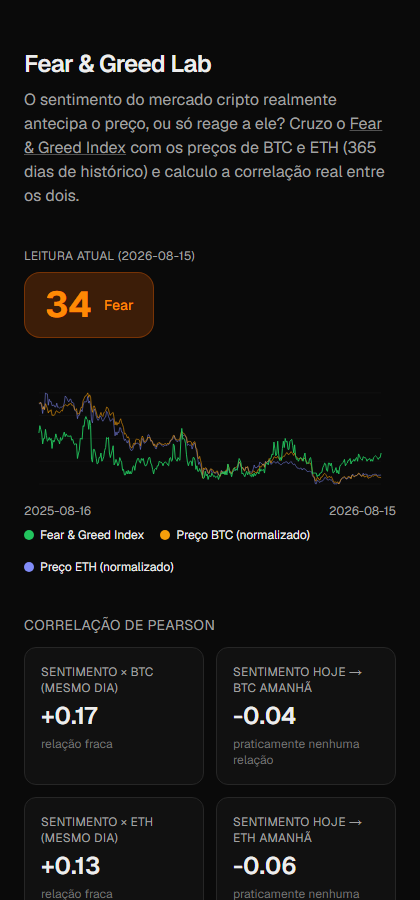
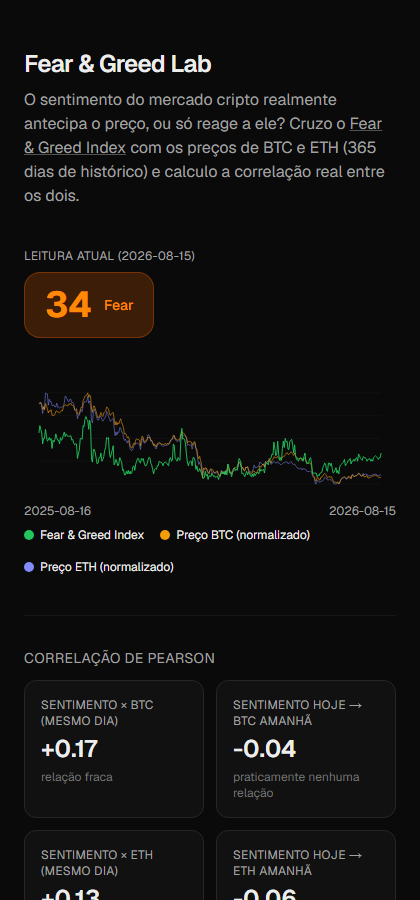
Melhora organização visual e revisa textos (tira travessões)
- Divisórias sutis entre as seções da página, agora que ela tem mais
  conteúdo (correlação, correlação móvel, backtest)
- Cards de backtest passam a ocupar a largura toda, igual à grid de
  correlação (antes ficavam presos a max-w-2xl com espaço vazio ao lado)
- Reescreve trechos do README e dos comentários que usavam travessão,
  trocando por vírgula, ponto-e-vírgula ou dois-pontos conforme o caso

diff --git a/src/app/page.tsx b/src/app/page.tsx
@@ -84,7 +84,7 @@ export default async function Home() {
         <SentimentChart data={chartData} />
       </section>
 
-      <section className="mb-10">
+      <section className="mb-10 pt-8 border-t border-neutral-900">
         <h2 className="text-sm uppercase tracking-wide text-neutral-400 mb-3">
           Correlação de Pearson
         </h2>
@@ -112,7 +112,7 @@ export default async function Home() {
         </div>
       </section>
 
-      <section className="mb-10">
+      <section className="mb-10 pt-8 border-t border-neutral-900">
         <h2 className="text-sm uppercase tracking-wide text-neutral-400 mb-1">
           Correlação em janela móvel (30 dias)
         </h2>
@@ -123,7 +123,7 @@ export default async function Home() {
         <CorrelationChart data={rollingCorrelation} />
       </section>
 
-      <section className="mb-10">
+      <section className="mb-10 pt-8 border-t border-neutral-900">
         <h2 className="text-sm uppercase tracking-wide text-neutral-400 mb-1">
           Backtest: comprar no medo, vender na ganância
         </h2>
@@ -132,15 +132,15 @@ export default async function Home() {
           extrema), decidido sempre com a leitura do dia anterior. Comparado contra apenas comprar
           e segurar no primeiro dia do histórico.
         </p>
-        <div className="grid grid-cols-1 sm:grid-cols-2 lg:max-w-2xl gap-3">
+        <div className="grid grid-cols-1 sm:grid-cols-2 gap-3">
           <BacktestCard asset="BTC" result={btcBacktest} />
           <BacktestCard asset="ETH" result={ethBacktest} />
         </div>
       </section>
 
-      <footer className="text-xs text-neutral-500 border-t border-neutral-800 pt-6 max-w-2xl">
+      <footer className="text-xs text-neutral-500 border-t border-neutral-800 pt-8 max-w-2xl">
         <p>
-          Correlação não é causalidade — e um coeficiente de Pearson não captura relações
+          Correlação não é causalidade, e um coeficiente de Pearson não captura relações
           não-lineares. Este projeto é uma exploração, não uma recomendação de investimento.
         </p>
         <p className="mt-1">

diff --git a/src/lib/insights.ts b/src/lib/insights.ts
@@ -23,7 +23,7 @@ export type RollingCorrelationPoint = {
  * Computes two correlations per asset:
  * - sameDay: does today's Fear & Greed value line up with today's price move?
  * - nextDay: does today's Fear & Greed value predict tomorrow's price move?
- *   (a lag-1 correlation — the more interesting question for "does sentiment lead price")
+ *   (a lag-1 correlation, the more interesting question for "does sentiment lead price")
  */
 export function computeInsights(snapshots: Snapshot[]): Insights {
   const sorted = [...snapshots].sort(

diff --git a/src/app/api/ingest/route.ts b/src/app/api/ingest/route.ts
@@ -10,7 +10,7 @@ import { pctChange } from "@/lib/pct-change";
  *
  * `btcChange24h`/`ethChange24h` are computed close-to-close against the most
  * recent stored snapshot (same method `scripts/backfill.ts` uses), not
- * CoinGecko's own rolling `usd_24h_change` — the two aren't the same measure
+ * CoinGecko's own rolling `usd_24h_change`. The two aren't the same measure
  * (calendar-day close-to-close vs. trailing 24h from request time), and
  * mixing them in the same column would quietly corrupt the correlation math.
  */

diff --git a/README.md b/README.md
@@ -5,7 +5,7 @@ gente como sinal de mercado: "extreme fear" = comprar, "extreme greed" = vender.
 **realmente** antecipa o preço, ou só reflete o que já aconteceu?
 
 Este projeto ingere diariamente o índice de sentimento e os preços de BTC/ETH, guarda o
-histórico e calcula a correlação de Pearson real entre os dois — no mesmo dia e com um dia de
+histórico e calcula a correlação de Pearson real entre os dois, no mesmo dia e com um dia de
 defasagem (sentimento hoje → preço amanhã).
 
 ![Dashboard do Fear & Greed Lab](docs/screenshot-desktop.png)
@@ -24,25 +24,25 @@ defasagem (sentimento hoje → preço amanhã).
 | Sentimento × preço (mesmo dia) | fraca, positiva | fraca, positiva |
 | Sentimento hoje → preço amanhã | ~0 (sem poder preditivo) | ~0 (sem poder preditivo) |
 
-Na prática: o índice tende a se mover *junto* com o preço no mesmo dia (o que faz sentido —
-ele é parcialmente derivado de volatilidade e momentum), mas **não prediz o próximo dia**. Os
-números exatos do dia mudam a cada ingestão — o dashboard sempre mostra o cálculo atual.
+Na prática, o índice tende a se mover junto com o preço no mesmo dia (o que faz sentido, já
+que ele é parcialmente derivado de volatilidade e momentum), mas não prediz o próximo dia. Os
+números exatos mudam a cada ingestão; o dashboard sempre mostra o cálculo atual.
 
 O dashboard também traz:
 
-- **Correlação em janela móvel (30 dias)** — a correlação agregada do ano inteiro esconde se a
-  relação muda por regime de mercado; a janela móvel mostra isso dia a dia.
+- **Correlação em janela móvel (30 dias)**: a correlação agregada do ano inteiro esconde se a
+  relação muda por regime de mercado. A janela móvel mostra isso dia a dia.
 - **Backtest** de uma estratégia simples ("compra no medo extremo, vende na ganância extrema",
   decidida sempre com a leitura do dia anterior para evitar lookahead bias) contra apenas comprar
   e segurar. No período atual, a estratégia perde menos que o buy & hold durante a queda do
-  mercado — não porque acerta o timing, mas porque passa parte do tempo fora do mercado.
+  mercado, não porque acerta o timing, mas porque passa parte do tempo fora do mercado.
 
 ## Stack
 
 - Next.js 16 (App Router) + TypeScript + Tailwind CSS 4
 - Prisma 7 + Postgres (Neon, via driver adapter `@prisma/adapter-pg`)
 - Vitest para a lógica de correlação/insights (a parte que realmente precisa estar certa)
-- Sem dependências de gráfico — o chart é um SVG simples, sem lib externa
+- Sem dependências de gráfico (o chart é um SVG simples, sem lib externa)
 - Deploy: Vercel, com Vercel Cron chamando a ingestão diária
 
 ## Como rodar
@@ -64,8 +64,8 @@ endpoint uma vez por dia (`0 0 * * *`) e envia automaticamente
 
 ## Fontes de dados
 
-- [alternative.me](https://alternative.me/crypto/fear-and-greed-index/) — Fear & Greed Index (gratuita, sem chave)
-- [CoinGecko](https://www.coingecko.com/en/api) — preços de BTC/ETH (gratuita, sem chave)
+- [alternative.me](https://alternative.me/crypto/fear-and-greed-index/): Fear & Greed Index (gratuita, sem chave)
+- [CoinGecko](https://www.coingecko.com/en/api): preços de BTC/ETH (gratuita, sem chave)
 
 ## Aviso
 
